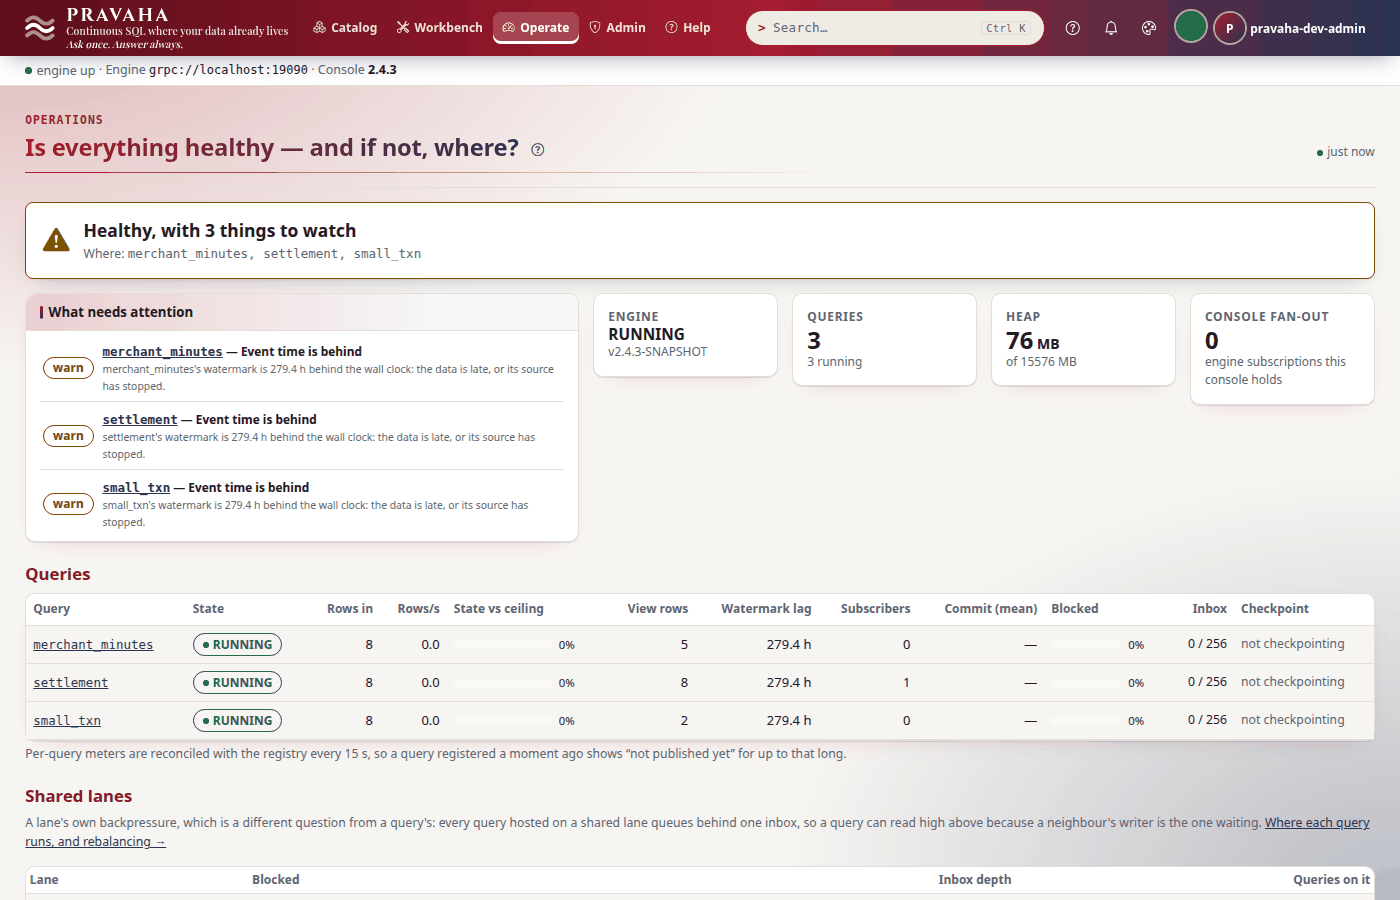
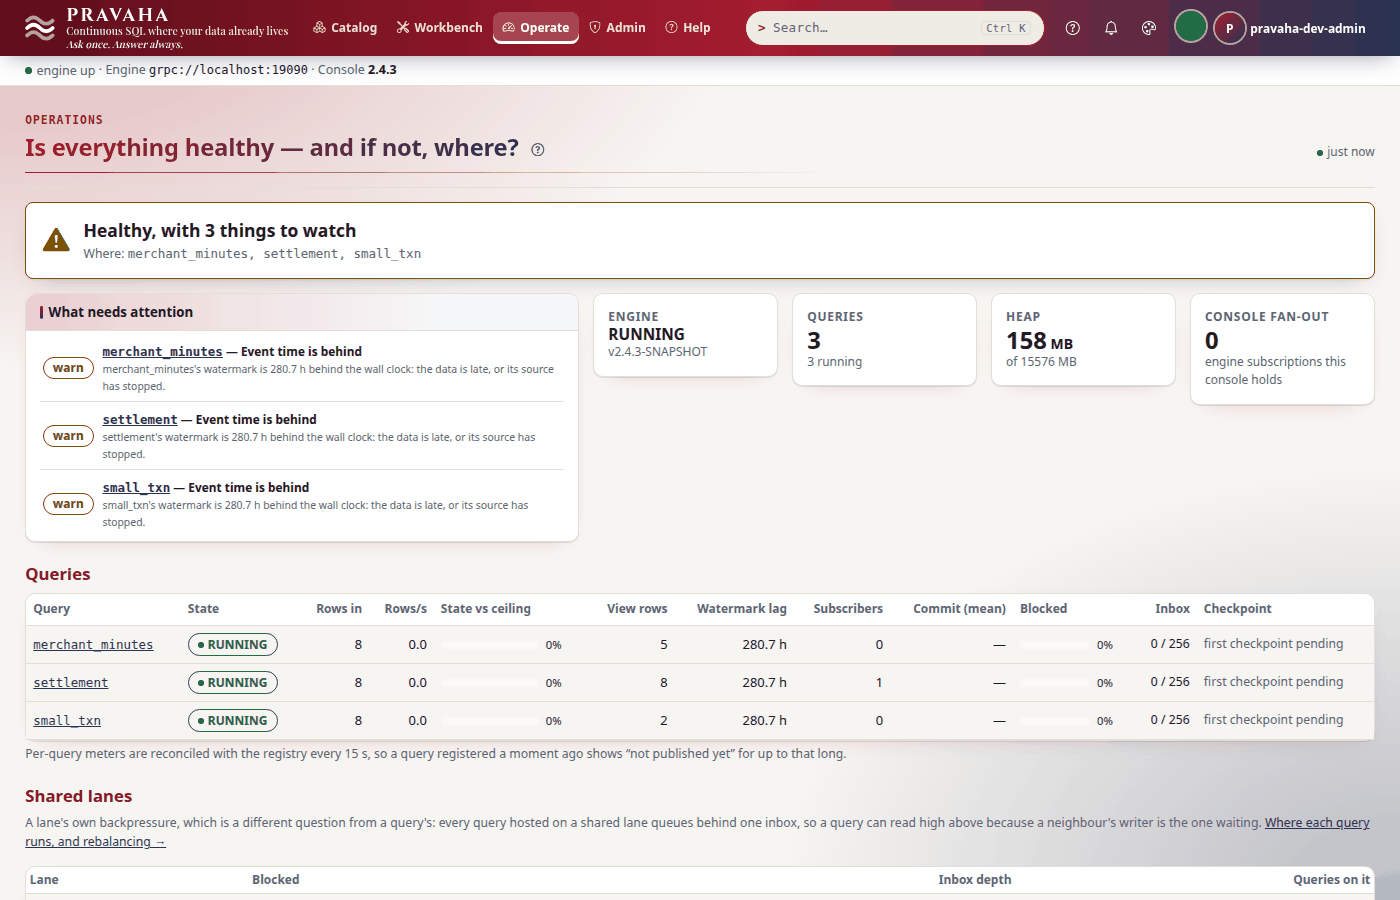
Tutorial 15 on the fixes: first checkpoint pending on Operations, the rules count printed as name: count; the stream in conf/streams/, the config watcher's thread

diff --git a/sdk/python/tools/tutorials/t15.py b/sdk/python/tools/tutorials/t15.py
@@ -30,6 +30,7 @@ PROMETHEUS = Container(
 )
 
 NODE = Node(config="t15/application.yaml", containers=(PROMETHEUS,), files=(
+    ("t15/streams", "conf/streams"),
     ("t15/txn.csv", "data/incoming/txn.csv"),
     ("t15/prometheus.yml", "prometheus.yml"),
 ))
@@ -95,9 +96,9 @@ STEPS = (
     Sh("t15-prom-lanes", f"curl -s '{PROM}/api/v1/query?query=pravaha_lane_shared_queries' | {PROMQL}",
        show=f"curl -s 'localhost:9090/api/v1/query?query=pravaha_lane_shared_queries' | {PROMQL}"),
     Sh("t15-prom-rules", f"curl -s '{PROM}/api/v1/rules' | python3 -c \"import json, sys; "
-                         "[print(g['name'], len(g['rules'])) for g in json.load(sys.stdin)['data']['groups']]\"",
+                         "[print(g['name'] + ':', len(g['rules'])) for g in json.load(sys.stdin)['data']['groups']]\"",
        show="curl -s 'localhost:9090/api/v1/rules' | python3 -c \"import json, sys; "
-            "[print(g['name'], len(g['rules'])) for g in json.load(sys.stdin)['data']['groups']]\""),
+            "[print(g['name'] + ':', len(g['rules'])) for g in json.load(sys.stdin)['data']['groups']]\""),
     Sh("t15-dashboards", f"cd {REPO} && for f in deploy/observability/grafana/*.json; do python3 -c \"import json, sys; "
                          "d = json.load(open(sys.argv[1])); print(sys.argv[1].split('/')[-1], '--', d['title'], '--', "
                          "len(d.get('panels', [])), 'panels')\" $f; done",

diff --git a/docs/tutorials/15-operating-at-scale.md b/docs/tutorials/15-operating-at-scale.md
@@ -20,13 +20,14 @@ real Prometheus running these steps.
 - [Tutorial 1](01-first-15-minutes.md) done; [tutorial 6](06-investigating-an-incident.md) introduces
   `top` and the metrics, [tutorial 14](14-running-in-production.md) API keys.
 - Docker, for Prometheus (`prom/prometheus`); a JDK's `jcmd` for the thread dump.
-- The tutorial's files, in [data/t15/](data/t15/): `application.yaml` (the stream, the lanes, read
-  admission), `txn.csv` (eight payments) and `prometheus.yml`.
+- The tutorial's files, in [data/t15/](data/t15/): `application.yaml` (the lanes, read admission),
+  `streams/txn.yaml` (the stream, for the node's `conf/streams/`), `txn.csv` (eight payments) and
+  `prometheus.yml`.
 
 ```bash
 export PRAVAHA_HOME=$HOME/pravaha-t15
 mkdir -p $PRAVAHA_HOME/conf $PRAVAHA_HOME/data/incoming
-cp docs/tutorials/data/t15/application.yaml $PRAVAHA_HOME/conf/
+cp -r docs/tutorials/data/t15/application.yaml docs/tutorials/data/t15/streams $PRAVAHA_HOME/conf/
 cp docs/tutorials/data/t15/txn.csv $PRAVAHA_HOME/data/incoming/
 bin/pravaha-server --spring.profiles.active=dev,users &
 export PRAVAHA_TOKEN=$(pravaha login --user pravaha-dev-admin) PRAVAHA_INSECURE_TOKEN=true
@@ -270,9 +271,9 @@ its source has stopped. **Operate → Operations** says the same, and lists what
 
 ![Operations: healthy with 3 things to watch, each query's watermark far behind the wall clock because the sample data is old; engine RUNNING, 3 queries, the heap; and per query its rows in, rate, state against its ceiling, view rows, watermark lag, subscribers, inbox and checkpoint, then the shared lanes](img/t15/04-operations.png)
 
-(The Checkpoint column says `not checkpointing` for these queries: a home checkpoints every query
-into `data/checkpoints` once a minute, and none has taken its first yet. The words are wrong for that —
-"no checkpoint yet" is what is true — OPSCKPT-1.)
+(The Checkpoint column says `first checkpoint pending` for these queries: a node checkpoints every
+query into `data/checkpoints` once a minute, and none has taken its first yet. A query that never
+checkpoints — a node with `pravaha.data.dir: none` — says `not checkpointing`.)
 
 You should see `pravaha_lane_own_queries ... 3.0` and the three queries in `top`, each `8` rows in.
 
@@ -341,10 +342,10 @@ checkpoints failing, sinks behind, notification delivery, catalogue denials, the
 
 <!-- capture: t15-prom-rules -->
 ```text
-$ curl -s 'localhost:9090/api/v1/rules' | python3 -c "import json, sys; [print(g['name'], len(g['rules'])) for g in json.load(sys.stdin)['data']['groups']]"
-pravaha 10
-pravaha-alerts-catalog 4
-pravaha-console 1
+$ curl -s 'localhost:9090/api/v1/rules' | python3 -c "import json, sys; [print(g['name'] + ':', len(g['rules'])) for g in json.load(sys.stdin)['data']['groups']]"
+pravaha: 10
+pravaha-alerts-catalog: 4
+pravaha-console: 1
 ```
 <!-- /capture -->
 
@@ -379,6 +380,7 @@ $ jcmd $(pgrep -f pravaha-server) Thread.print -l > threads.txt && grep -m1 '^Fu
 Full thread dump OpenJDK 64-Bit Server VM (<version>):
       N "pravaha-alerts
       N "pravaha-clock
+      N "pravaha-config-watch
       N "pravaha-lane-runner
       N "pravaha-metrics
       N "pravaha-replacements
@@ -393,6 +395,7 @@ Full thread dump OpenJDK 64-Bit Server VM (<version>):
 | `pravaha-clock` | the one timer thread; each firing (a watermark tick, an idleness check) is handed to a virtual thread |
 | `pravaha-state-owner` | renews the lease on the node's claim to its checkpoint and journal directories, so two nodes cannot share one |
 | `pravaha-metrics`, `pravaha-alerts`, `pravaha-replacements` | reconciling the per-query meters, evaluating alerts, running blue/green replacements |
+| `pravaha-config-watch` | looking at `conf/streams/`, `conf/lookups/`, `conf/sinks/` and `conf/connectors/` every `pravaha.config.watch-interval` |
 
 Much of the rest — Flight calls, ticks, waits — runs on virtual threads, which a dump made this way does
 not list; `jcmd <pid> Thread.dump_to_file -format=json threads.json` writes those too. A node in a
